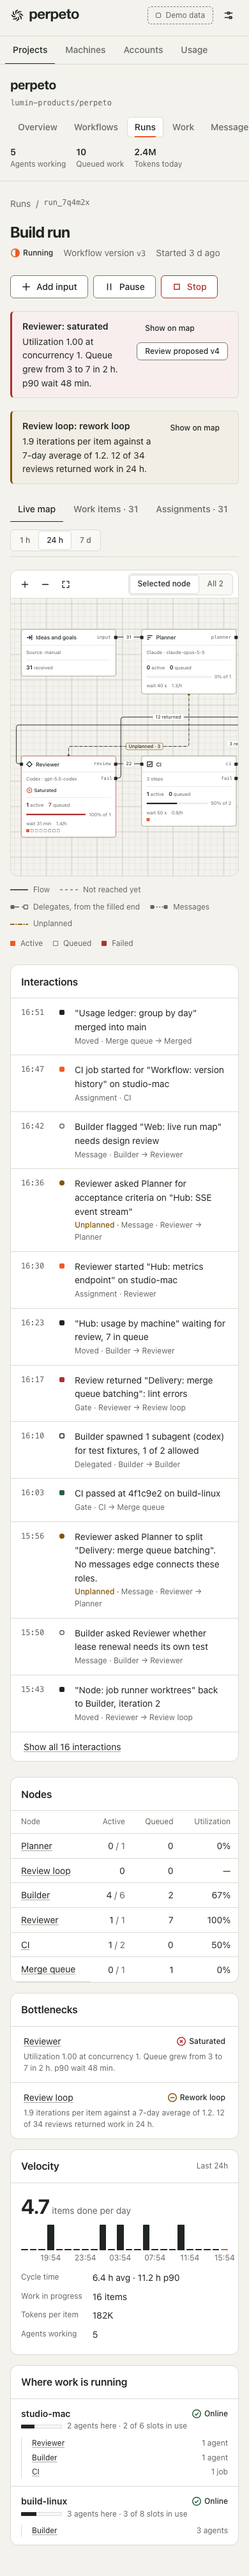
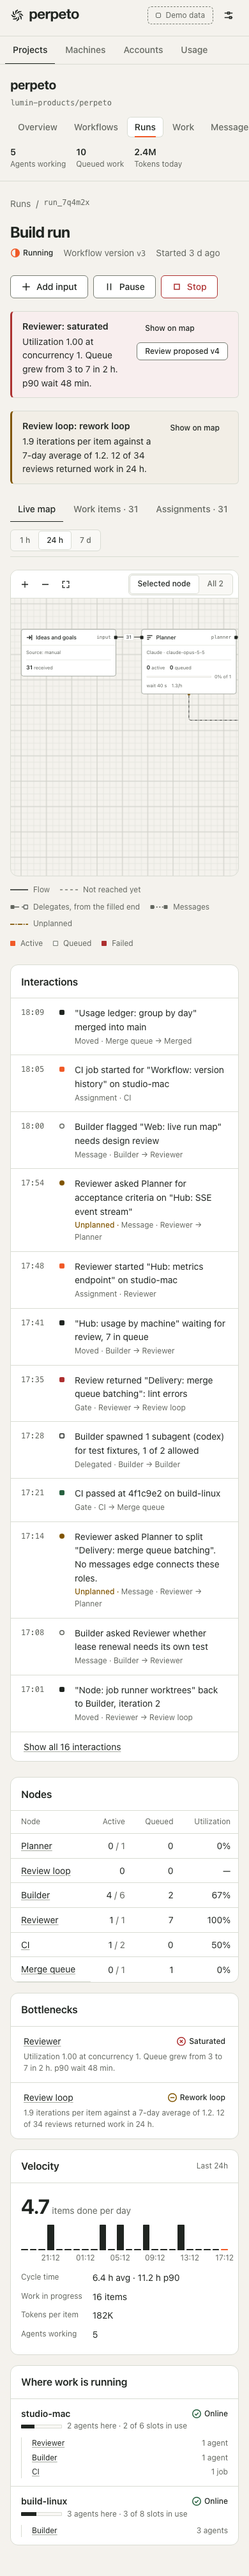
docs(web): handoff for layered layout, tidy layout, decision ids and 200-node numbers; fresh screenshots

Changed region(s): [[0.0615, 0.2812, 0.4923, 0.3437], [0.5538, 0.2812, 0.9538, 0.3437]]

diff --git a/docs/handoffs/web-app.md b/docs/handoffs/web-app.md
@@ -11,8 +11,11 @@ It talks only to the hub. This round connected it to the real `apps/hub` and che
 | Hub client | `src/api/client.ts` matches `apps/hub` response shapes (see [Contract](#contract-as-implemented)). Bearer header or session cookie, `idempotencyKey` on every write, hub error bodies surfaced as `HubError`. Events stream over `fetch` + SSE, starting from the newest event and resuming from the last `seq`, with backoff and a polling fallback. |
 | Owner token | Never written to `localStorage`. The client asks the hub for an HttpOnly session cookie behind a feature check. Until the hub serves that route, the token lives in `sessionStorage` for the tab only, with a visible warning in Settings. Tokens left in the old `perpeto.hub.v1` key are moved out on first load. See [Token storage](#token-storage). |
 | Live refresh | `useResource` refetches on matching events with a debounce and a ceiling (`maxWaitMs`), keeping data on screen. Run metrics refresh on any event for the run (1 s debounce, at most every 4 s); project metrics, usage and merge queue refresh on their events too. |
-| Graph routing | `src/workflow/router.ts` routes every edge for the whole graph at once. Flow runs straight along the main line, and through the gap between rows when it wraps or returns. Delegates and messages leave node tops and bottoms into their own lanes, never on the main line. Edges between the same two nodes are bundled into one cable with one label. Every horizontal run gets its own lane. Labels are placed only where they touch no node, label or other edge; one that cannot fit becomes a tooltip. |
-| Layout | `src/workflow/layout.ts`. Hub templates and architect drafts are positioned for smaller nodes, so view and live screens re-lay graphs whose nodes would overlap. The main line wraps into balanced rows of up to five. Side roles sit under the node that delegates or escalates to them. Gaps widen until the lanes fit. Graphs that already fit keep their positions. |
+| Graph routing | `src/workflow/router.ts` routes every edge for the whole graph at once. Flow runs straight along the main line. Returns along the top row run as nested arcs in one channel above it; returns from lower rows run below their row. An edge into another row takes one elbow through the column gap when it is clear. Delegates and messages leave node tops and bottoms into their own lanes below the main line. Edges between the same two nodes are bundled into one cable with one label. Every horizontal run gets its own lane. Labels are placed only where they touch no node, label or other edge (checked through a grid index); one that cannot fit becomes a tooltip. |
+| Layout | `src/workflow/layout.ts`, hand-written layered layout, left to right. A DFS that follows `out`/`pass` first sets loop back edges aside; the main line (reachable from inputs along primary ports) is ranked by longest path into one column per step. Fail branches go in a lane below, one column after their gate; delegate helpers and escalation targets go below the node they serve. Barycenter sweeps order shared columns to cut crossings, keeping the main line on the top row. Gaps widen until the lanes fit. dagre would only supply the layering and elkjs adds about 1.4 MB and a worker for routing the router already owns, so neither earns a dependency. |
+| Tidy layout | Stored positions are kept when they fit at the web's node size. Graphs with none (web templates, architect drafts, hub templates) get the automatic layout. The editor writes it into the graph on open without marking the draft changed, keeps moved nodes as dropped, and lays out again only on "Tidy layout" (an undoable change saved with the draft). View and live maps show a "Tidy layout" toggle when they are showing saved positions. The editor opens at 60 % zoom or more, at the start of the flow; the fit button still shows everything. |
+| Human gates | `decideWorkItem` sends the item's `decisionId`. A `409 STALE_DECISION` (or `CONFLICT`, item no longer waiting) shows "Decision not recorded…" on the card and reloads the work items. |
+| Large graphs | Over 60 nodes the map renders only what is in view, draws compact nodes (no live strip) below 45 % zoom, and applies late node measurements once a pan pauses. Unchanged nodes and edges keep their objects, so a selection re-renders the two nodes involved instead of all of them. |
 | Live map | Shows delegates and messages for the selected node only by default, with an "All" toggle in the canvas toolbar. Unplanned interactions always show. Zoom controls live in the same strip, so they never cover nodes. |
 | Brand | Nodes, ports, edges, grid and status labels now follow [design-system.md](../architecture/design-system.md). Nodes are 240 wide with a 40 px header (16 px glyph, 14 medium name, mono step kind). Status is an inline label, and nodes are never filled with a status colour. Ports are 8 px squares. Edges have no arrowheads; unreached live paths are dashed `control-border`. Selection is `accent`, and the grid uses 16/64 px `grid-minor`/`grid-major` lines. Status labels everywhere use the 16 px shapes: open, half-filled, bar, cross, check, plus a triangle for approval. |
 | Architect | Follows `GET /assignments/:id`, refreshed on its events and polled every 5 s as a fallback. It follows `retryAssignmentId` through invalid attempts, shows `architectErrors`, and opens `draftWorkflowId`/`draftVersion` when the draft is saved. |
@@ -27,11 +30,25 @@ Run on this Mac with Node 24.22:
 
 - `npm run typecheck -w @perpeto/web` passes. `npm test -w @perpeto/web` runs 27 Vitest tests, all passing. New tests cover the router (separate lanes, label clearance, bundling, straight main line, layout of the hub build template) and client conversions (envelopes, validation, diff, usage, job log, version status, run input, decisions, event paging, cookie and fallback session).
 - `npm run build -w @perpeto/web` passes with no chunk-size warning.
+- This round: `npm test -w @perpeto/web` runs 31 tests (new: layered layout of the hub and web build templates, crossing removal, returns nested above the main line, no flow edge through a node, position detection, 200-node layout and routing budget, `decisionId` and `STALE_DECISION`). Typecheck and build pass. Smoke passes 13 steps, adding drag-then-tidy in the editor. Screenshots were regenerated for demo and a freshly seeded local hub (port 4329) at 1440 and 390. The stale-decision message is covered by unit tests only: no seeded item reached the triage gate, so it was not exercised against the hub in a browser.
 - `node apps/web/scripts/smoke.mjs` passes 12 browser steps in headless Chromium with no console errors. New steps measure rendered edge labels on the live map (both toggle states), proposal and editor and fail on any overlap with another label or a node. They also check the delegates and messages toggle and that no token is left in `localStorage`.
 - **Real hub.** I started `apps/hub` from a temporary config (loopback 4320, CORS for `http://localhost:5180`) and seeded it with `node apps/web/scripts/seed-web-demo-hub.mjs <hubUrl> <owner.secret> --hold`. The script acts as the owner and two simulated machines over HTTP. It creates a project. It answers the architect, first with an invalid graph so the hub retries, then valid; that version is activated, and a v2 proposal follows. It starts a run, and the machines play planner, builder, reviewer and CI. `node apps/web/scripts/hub-screenshots.mjs <hubUrl> <owner.secret>` connects through the Settings form and checks that the token is absent from `localStorage`. It captures `hub-*` screenshots at 1440 and 390 with no browser errors. They show real hub data: 24 work items, builder and reviewer saturation, a high reviewer failure rate, hub diffs and validation.
 - `node apps/web/scripts/screenshots.mjs` regenerated the 17 demo screens at both widths. I inspected the live map, proposal, editor, overview and the mobile live map against the brand rules.
 
 Not verified: a real node daemon or harness, real Git or merge delivery (seeded items stop before merge), the session-cookie path against a hub (it needs the route below), Safari or Firefox, screen readers, touch editing.
+
+## Live map at 200 nodes
+
+`node apps/web/scripts/perf.mjs <devUrl> 200` drives the dev-only `/perf.html` page (not in the build): a synthetic 202-node, 316-edge live map (`src/workflow/synthetic.ts`, six parallel tracks of review loops with helpers, CI and a triage gate) at 1440 × 960 in headless Chromium on this Mac. Frame rates are capped at 60. Headless runs are noisy; the 4× rows vary by about ±40 ms between runs.
+
+| CPU | Rendering | Pan at fit (fps, worst frame) | Pan at 107 % | Select node | Live update (median) | DOM nodes at fit |
+| --- | --- | --- | --- | --- | --- | --- |
+| 1× | Virtualised + compact | 60, 17 ms | 60, 17 ms | 27 ms | 32 ms | 82 |
+| 1× | Everything rendered | 60, 17 ms | 60, 17 ms | 161 ms | 80 ms | 202 |
+| 4× slower | Virtualised + compact | 38–43, 117–183 ms | 59–60, 17–33 ms | 85–155 ms | 61–108 ms | 82 |
+| 4× slower | Everything rendered | 45–50, 33–50 ms | 41–49, 50–83 ms | 648–773 ms | 278–331 ms | 202 |
+
+Layout of the same graph takes about 1 ms (two passes 30–40 ms cold, in Vitest), routing with labels 3.4 ms, down from 11.2 ms before the label index. On a slow CPU, the first pan across unseen parts of the graph at far-out zoom still drops frames while new nodes mount; everything else stays smooth.
 
 ## Token storage
 
@@ -72,6 +89,8 @@ All gaps listed in the previous handoff are closed against `apps/hub`:
 
 - Until the session route exists, a script injected into the app's origin can read the token while the tab is open. Serve the app only from a trusted origin.
 - The architect harness and providers come from hub config; `src/config/providers.json` still lists illustrative models for the editor.
-- The router minimises crossings but does not eliminate them: return edges from a gate's `fail` port cross the main line next to that gate. Labels never overlap.
-- The editor keeps author positions (no automatic re-layout) and still sits inside the project frame, so large graphs open small.
+- The router minimises crossings but does not eliminate them: a return arc from a gate's `fail` port crosses that gate's own `pass` edge right beside it, and delegate or message lanes below the main line can cross a return from the side lane. Labels never overlap.
+- **Width.** One column per step makes long main lines wide: the nine-step build template fits a 1440 px live map at about 40 % zoom, which is hard to read without zooming in. Wrapping rows was the old answer and caused the doubling back. The coming restyle should decide how the live map frames long graphs (taller canvas, a readable minimum zoom like the editor's, or compact nodes for small graphs too).
+- "Saved positions" means positions that do not overlap at the web's node size; there is no explicit marker in the graph schema. A hand arrangement that happens to overlap is re-laid out in view and live screens (the editor keeps it).
+- Compact nodes and the Tidy layout button use existing styles only, pending the restyle.
 - `DemoHub` and its fixtures are still in the main chunk.

diff --git a/apps/web/README.md b/apps/web/README.md
@@ -9,6 +9,7 @@ npm run typecheck -w @perpeto/web
 npm run build:web
 node apps/web/scripts/screenshots.mjs   # with the dev server running; writes apps/web/screenshots/
 node apps/web/scripts/smoke.mjs         # browser smoke test of the main flows
+node apps/web/scripts/perf.mjs http://localhost:5180 200   # live map frame rates and latencies, synthetic graph
 
 # Against a real hub (see apps/hub/README.md; allow http://localhost:5180 in corsOrigins)
 node apps/web/scripts/seed-web-demo-hub.mjs http://127.0.0.1:4320 path/to/owner.secret --hold
